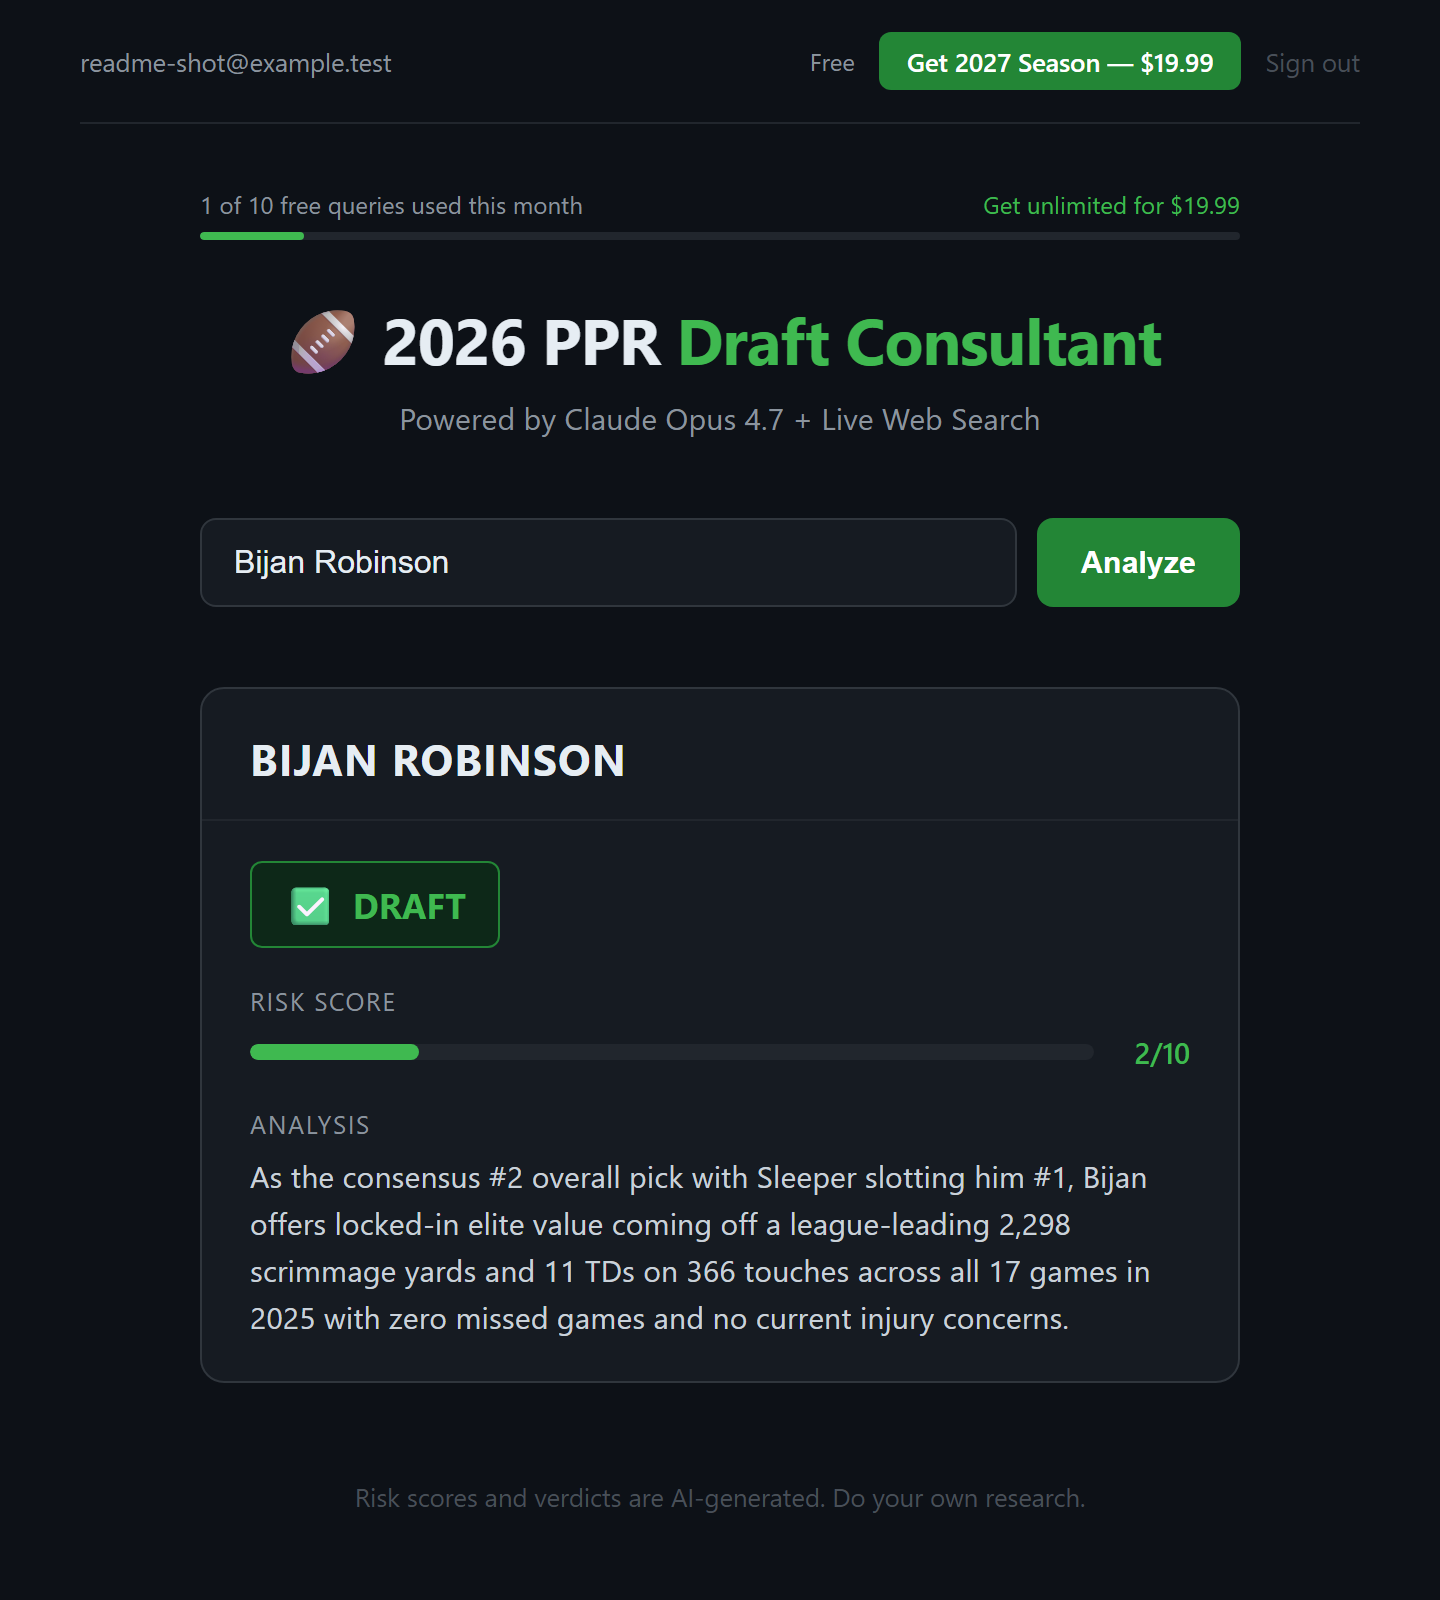
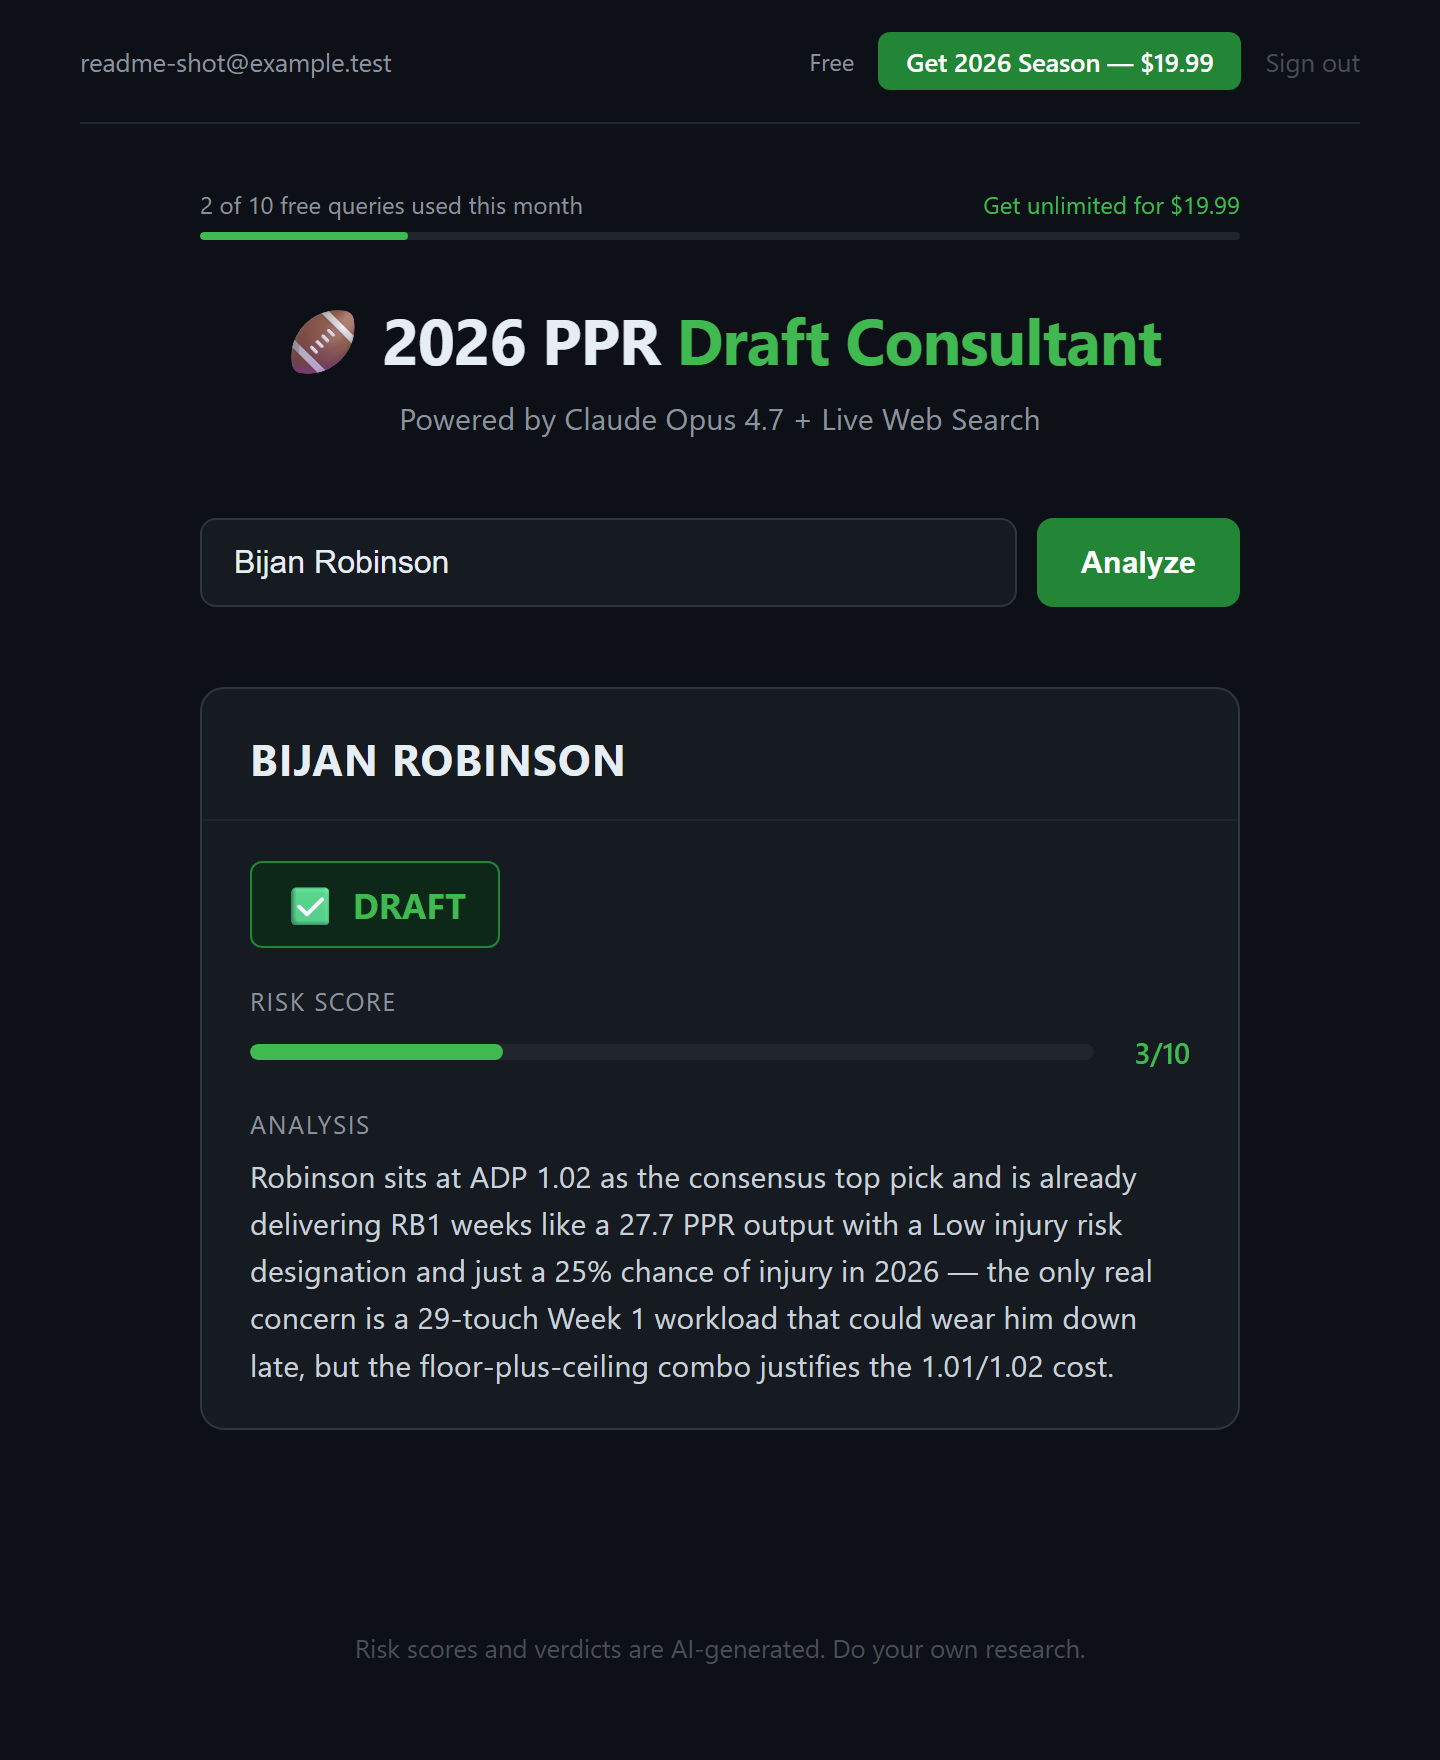
README: refresh the UI screenshot
The old screenshot showed "Get 2027 Season" from before the season
calendar fix (#10). Retaken from a live local run (inprocess mode, Claude +
web search, throwaway test account): every year on the page now reads
2026. Alt text updated for the new verdict (Draft, 3/10).

diff --git a/README.md b/README.md
@@ -7,7 +7,7 @@ Built with Claude Opus 4.7 and live web search — type a player name, get a ris
 ![Python](https://img.shields.io/badge/Python-3.10+-blue) ![Flask](https://img.shields.io/badge/Flask-3.0-lightgrey) ![Claude](https://img.shields.io/badge/Claude-Opus%204.7-orange) ![Tests](https://img.shields.io/badge/tests-188%20passing-brightgreen) ![Coverage](https://img.shields.io/badge/coverage-97%25-brightgreen)
 
 <p align="center">
-  <img src="docs/screenshot.png" alt="Analyzing Bijan Robinson: Draft verdict, risk score 2/10, and a one-sentence reason" width="560">
+  <img src="docs/screenshot.png" alt="Analyzing Bijan Robinson: Draft verdict, risk score 3/10, and a one-sentence reason" width="560">
 </p>
 
 ---
